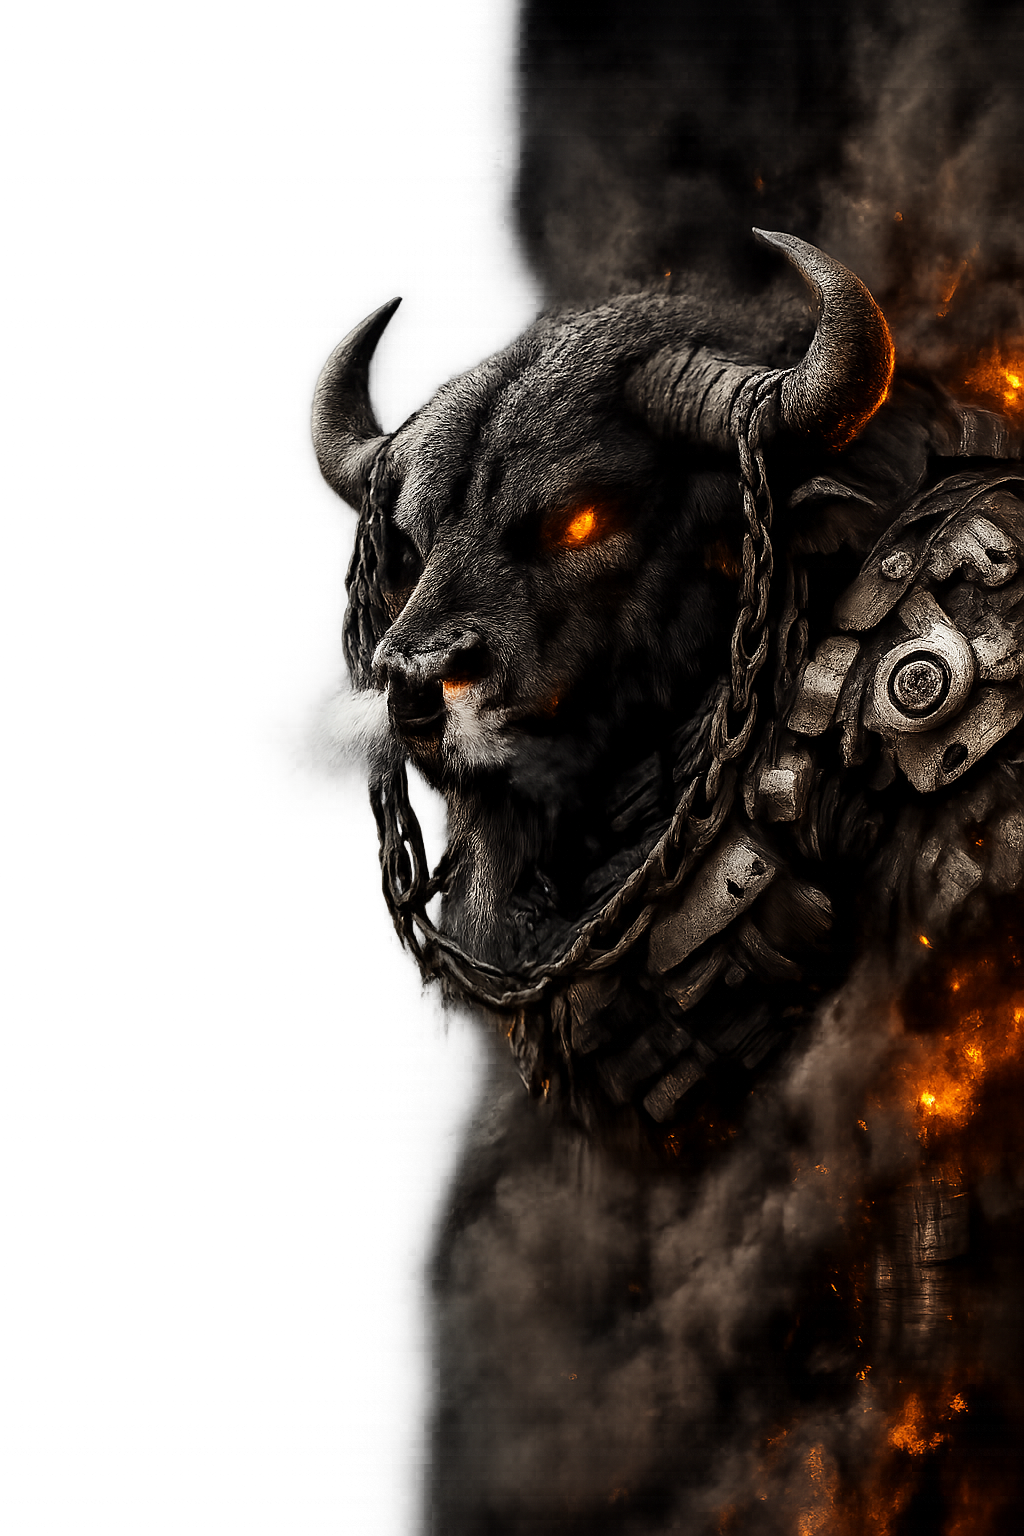
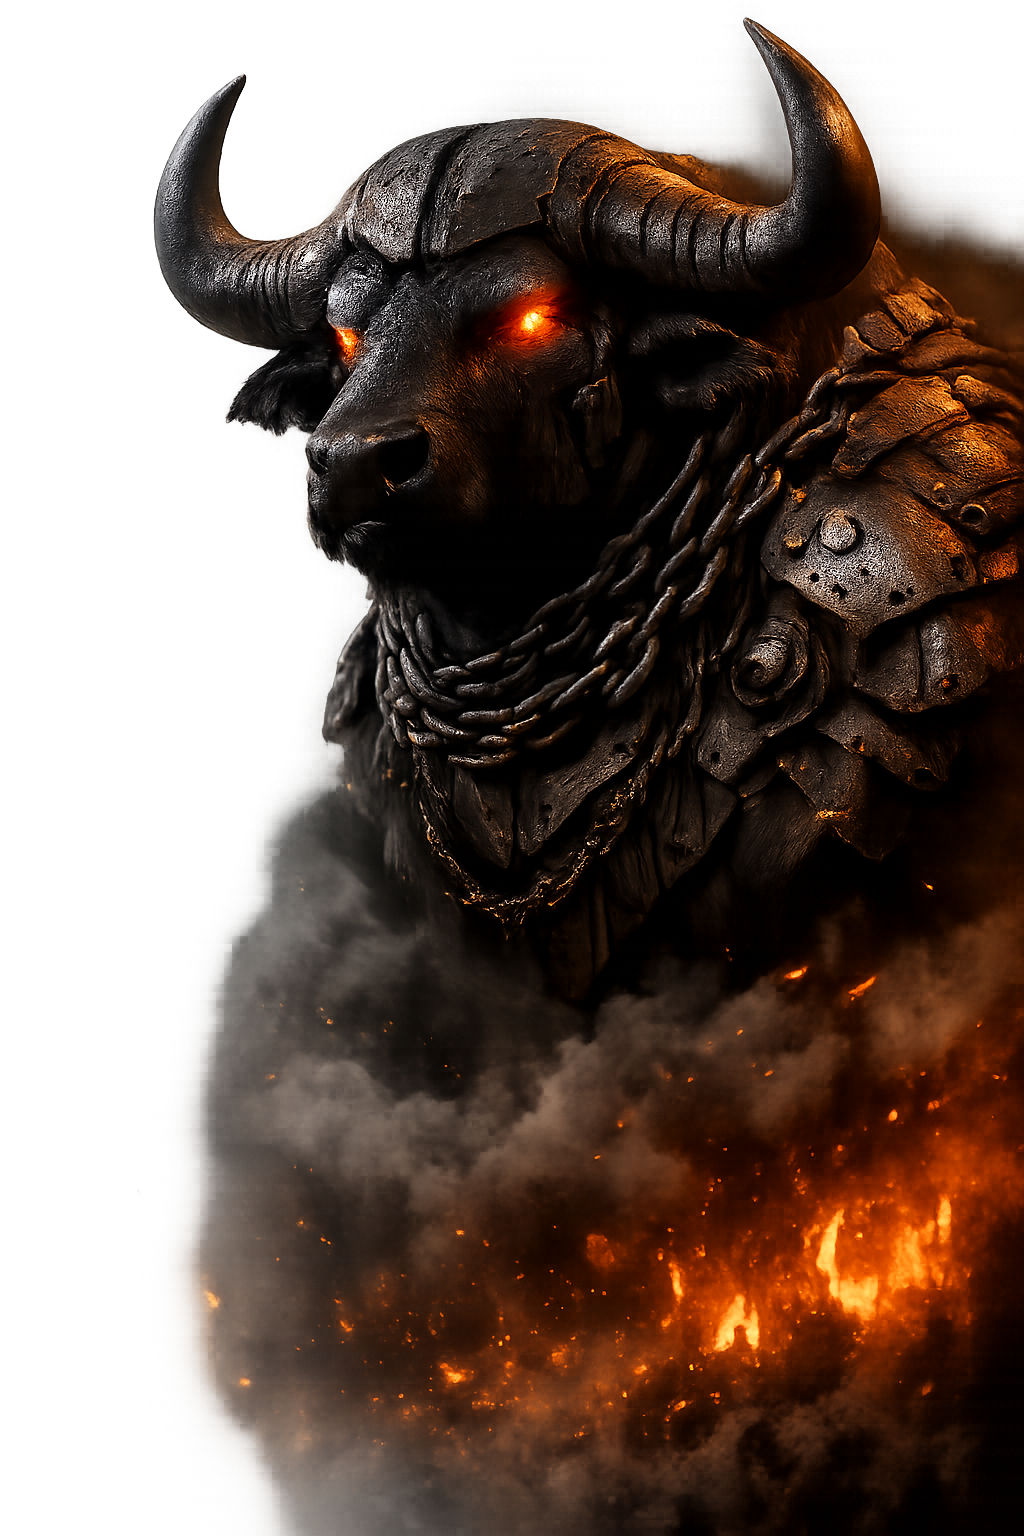
style(faq): full-height buffalo art, 2cm gap before text column
Made-with: Cursor

diff --git a/app/globals.css b/app/globals.css
@@ -238,10 +238,11 @@ h3 {
   z-index: 1;
 }
 
-/* FAQ — голова быка + растягивающаяся «дымка» */
+/* FAQ — буйвол справа на всю высоту секции; зазор ~2cm до текстового столбца */
 #faq {
   position: relative;
   overflow-x: clip;
+  --faq-buffalo-col: min(420px, 36vw);
 }
 
 .faq-buffalo-wrap {
@@ -249,71 +250,47 @@ h3 {
   right: 0;
   top: 0;
   bottom: 0;
-  width: min(400px, 35vw);
+  width: var(--faq-buffalo-col);
   z-index: 0;
   pointer-events: none;
   display: flex;
   flex-direction: column;
+  align-items: stretch;
+  justify-content: stretch;
+  box-sizing: border-box;
 }
 
 .faq-buffalo-img {
   width: 100%;
-  height: auto;
-  object-fit: contain;
-  object-position: right top;
-  flex-shrink: 0;
-  mask-image: linear-gradient(
-    to right,
-    transparent 0%,
-    rgba(0, 0, 0, 0.3) 10%,
-    rgba(0, 0, 0, 0.8) 30%,
-    rgba(0, 0, 0, 1) 45%
-  );
-  -webkit-mask-image: linear-gradient(
-    to right,
-    transparent 0%,
-    rgba(0, 0, 0, 0.3) 10%,
-    rgba(0, 0, 0, 0.8) 30%,
-    rgba(0, 0, 0, 1) 45%
-  );
-}
-
-.faq-buffalo-stretch {
+  height: 100%;
   flex: 1;
-  width: 100%;
   min-height: 0;
-  background: linear-gradient(
-    to bottom,
-    rgba(20, 16, 12, 0.9) 0%,
-    rgba(30, 18, 8, 0.6) 20%,
-    rgba(255, 100, 0, 0.05) 50%,
-    transparent 100%
-  );
+  object-fit: contain;
+  object-position: right center;
   mask-image: linear-gradient(
     to right,
     transparent 0%,
-    rgba(0, 0, 0, 0.2) 10%,
-    rgba(0, 0, 0, 0.6) 30%,
-    rgba(0, 0, 0, 0.8) 50%
+    rgba(0, 0, 0, 0.25) 12%,
+    rgba(0, 0, 0, 0.85) 32%,
+    rgba(0, 0, 0, 1) 48%
   );
   -webkit-mask-image: linear-gradient(
     to right,
     transparent 0%,
-    rgba(0, 0, 0, 0.2) 10%,
-    rgba(0, 0, 0, 0.6) 30%,
-    rgba(0, 0, 0, 0.8) 50%
+    rgba(0, 0, 0, 0.25) 12%,
+    rgba(0, 0, 0, 0.85) 32%,
+    rgba(0, 0, 0, 1) 48%
   );
 }
 
 #faq .layout-container {
   position: relative;
   z-index: 1;
-  padding-right: max(30vw, 200px);
 }
 
-@media (max-width: 1024px) {
+@media (min-width: 768px) {
   #faq .layout-container {
-    padding-right: 0;
+    padding-right: calc(var(--faq-buffalo-col) + 2cm);
   }
 }
 

diff --git a/components/FAQ.tsx b/components/FAQ.tsx
@@ -70,7 +70,6 @@ export function FAQ() {
           className="faq-buffalo-img"
           decoding="async"
         />
-        <div className="faq-buffalo-stretch" />
       </div>
       <div className="layout-container section-y-compact">
         <div className="w-full max-w-2xl text-left">